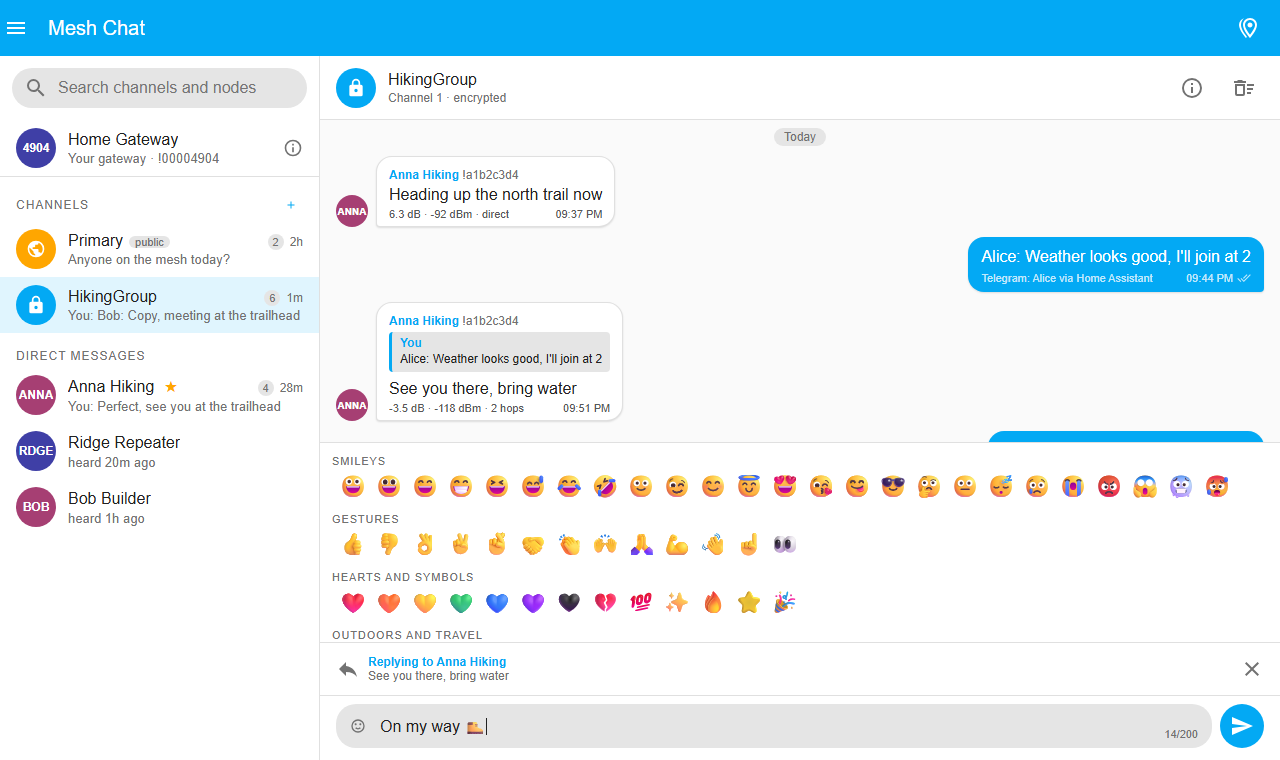
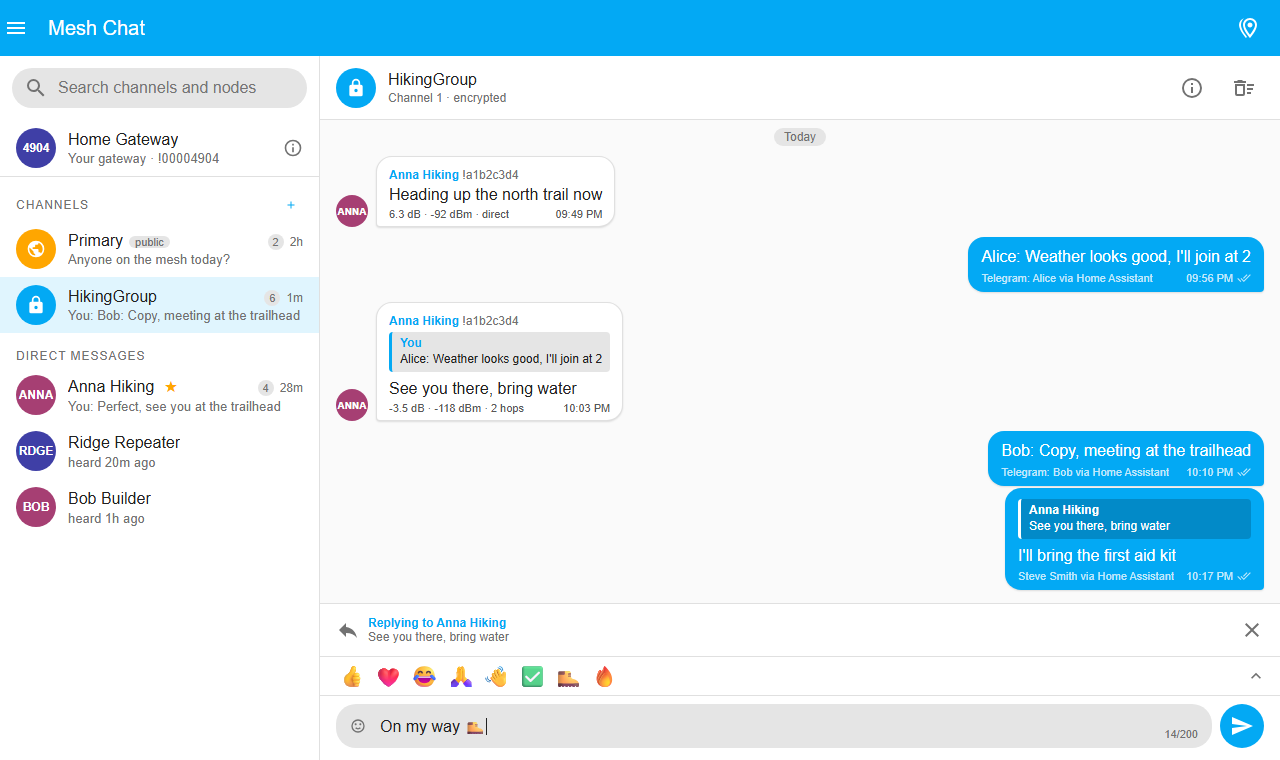
Chat: compact emoji strip, accuracy circle for the gateway
- The emoji picker is a strip of the eight emoji used last (kept in the browser, filled up with a few
  defaults) next to the composer; a chevron at its end opens the full list above it. The reply bar sits
  above the strip. README section and screenshots.
- The gateway's own position is exact in its node list, so its map marker never had an accuracy circle.
  The circle now shows what the mesh sees of it: the position precision of the primary channel (none when
  that shares full precision or no position). Other nodes keep the precision of their own position packets.
  The README says the circle is the sharing precision, not a radio range.

Tests for the gateway accuracy. Panel build 31.

diff --git a/custom_components/meshtastic/ha_frontend/chat-panel.js b/custom_components/meshtastic/ha_frontend/chat-panel.js
@@ -65,6 +65,9 @@ const EMOJI_GROUPS = [
   ["Weather", "☀ ⛅ ☁ 🌧 ⛈ ❄ 🌨 💨 🌈 🌡"],
   ["Radio and things", "📡 📻 📶 🔋 📱 💬 📢 ⚠ 🚨 🆘 ✅ ❌ ❓ ❗ ⏰ ☕ 🍺 🍕 🍔 🔔"],
 ].map(([title, emoji]) => [title, emoji.split(" ")]);
+// the strip above the composer shows the emoji used last, filled up with these until enough were used
+const EMOJI_RECENT_COUNT = 8;
+const EMOJI_DEFAULTS = ["👍", "❤", "😂", "🙏", "👋", "✅", "🥾", "🔥"];
 const REPLY_SNIPPET_CHARS = 120;
 const PRECISION_BITS = [0, 10, 11, 12, 13, 14, 15, 16, 17, 18, 19, 32];
 // nodes without a device tracker are shown to ha-map as states under this prefix (they never reach Home Assistant)
@@ -963,9 +966,33 @@ class MeshtasticChatPanel extends HTMLElement {
     window.setTimeout(() => row.classList.remove("flash"), 1500);
   }
 
+  _emojiMarkup(emoji) {
+    return `<button type="button" class="emoji" data-emoji="${emoji}" aria-label="${emoji}">${emoji}</button>`;
+  }
+
+  // the emoji used last (most recent first), padded with the defaults
+  _recentEmoji() {
+    const used = Array.isArray(this._persisted.recentEmoji) ? this._persisted.recentEmoji : [];
+    return [...new Set([...used, ...EMOJI_DEFAULTS])].slice(0, EMOJI_RECENT_COUNT);
+  }
+
+  _rememberEmoji(emoji) {
+    this._persisted.recentEmoji = [emoji, ...this._recentEmoji().filter((e) => e !== emoji)].slice(0, EMOJI_RECENT_COUNT);
+    saveState(this._persisted);
+  }
+
   _toggleEmojiPicker(open = this._emojiEl.hidden) {
+    if (open) this._emojiRecentEl.innerHTML = this._recentEmoji().map((e) => this._emojiMarkup(e)).join("");
+    else this._toggleAllEmoji(false);
     this._emojiEl.hidden = !open;
     this._emojiButton.setAttribute("aria-expanded", String(open));
+  }
+
+  _toggleAllEmoji(open = this._emojiAllEl.hidden) {
+    this._emojiAllEl.hidden = !open;
+    const expand = this._emojiEl.querySelector(".emoji-expand");
+    expand.setAttribute("aria-expanded", String(open));
+    expand.classList.toggle("open", open);
   }
 
   _insertEmoji(emoji) {
@@ -974,6 +1001,7 @@ class MeshtasticChatPanel extends HTMLElement {
     const start = textarea.selectionStart ?? textarea.value.length;
     const end = textarea.selectionEnd ?? start;
     textarea.setRangeText(emoji, start, end, "end");
+    this._rememberEmoji(emoji);
     textarea.focus();
     this._autoGrow();
     this._updateComposer();
@@ -1676,18 +1704,26 @@ class MeshtasticChatPanel extends HTMLElement {
           <header class="thread-header"></header>
           <div class="messages" role="log" aria-live="polite"></div>
           <div class="error" role="alert" hidden></div>
-          <div class="emoji-picker" role="group" aria-label="Emoji" hidden>${EMOJI_GROUPS.map(
-            ([title, emoji]) =>
-              `<div class="emoji-group" role="group" aria-label="${escapeHtml(title)}"><h3>${escapeHtml(title)}</h3>${emoji
-                .map((e) => `<button type="button" class="emoji" data-emoji="${e}" aria-label="${e}">${e}</button>`)
-                .join("")}</div>`
-          ).join("")}</div>
           <div class="reply-bar" hidden>
             <ha-icon icon="mdi:reply"></ha-icon>
             <div class="reply-bar-text"><span class="reply-bar-name"></span><span class="reply-bar-snippet"></span></div>
             <button type="button" class="icon-button" data-action="cancel-reply" aria-label="Cancel reply" title="Cancel reply">
               <ha-icon icon="mdi:close"></ha-icon>
             </button>
+          </div>
+          <div class="emoji-picker" role="group" aria-label="Emoji" hidden>
+            <div class="emoji-all" hidden>${EMOJI_GROUPS.map(
+              ([title, emoji]) =>
+                `<div class="emoji-group" role="group" aria-label="${escapeHtml(title)}"><h3>${escapeHtml(title)}</h3>${emoji
+                  .map((e) => this._emojiMarkup(e))
+                  .join("")}</div>`
+            ).join("")}</div>
+            <div class="emoji-bar">
+              <div class="emoji-recent"></div>
+              <button type="button" class="emoji-expand" data-action="emoji-expand" aria-expanded="false" aria-label="Show all emoji" title="All emoji">
+                <ha-icon icon="mdi:chevron-up"></ha-icon>
+              </button>
+            </div>
           </div>
           <form class="composer">
             <div class="composer-field">
@@ -1724,6 +1760,8 @@ class MeshtasticChatPanel extends HTMLElement {
     this._tooltipEl = root.querySelector(".tooltip");
     this._replyEl = root.querySelector(".reply-bar");
     this._emojiEl = root.querySelector(".emoji-picker");
+    this._emojiAllEl = root.querySelector(".emoji-all");
+    this._emojiRecentEl = root.querySelector(".emoji-recent");
     this._emojiButton = root.querySelector(".emoji-toggle");
     this._form = root.querySelector(".composer");
     this._textarea = root.querySelector("textarea");
@@ -1889,6 +1927,7 @@ class MeshtasticChatPanel extends HTMLElement {
     this._emojiEl.addEventListener("click", (ev) => {
       const emoji = ev.target.closest("[data-emoji]");
       if (emoji) this._insertEmoji(emoji.dataset.emoji);
+      if (ev.target.closest("[data-action=emoji-expand]")) this._toggleAllEmoji();
     });
 
     this._form.addEventListener("submit", (ev) => {

diff --git a/custom_components/meshtastic/ha_frontend/chat-panel.css b/custom_components/meshtastic/ha_frontend/chat-panel.css
@@ -646,12 +646,34 @@ a.chip-button { text-decoration: none; color: inherit; }
 .emoji-toggle:hover:not(:disabled) { color: var(--primary-text-color); }
 .emoji-toggle:disabled { opacity: 0.4; cursor: default; }
 .emoji-picker {
-  max-height: 200px;
-  overflow-y: auto;
-  padding: 4px 12px 8px;
   border-top: 1px solid var(--divider-color);
   background: var(--card-background-color);
 }
+.emoji-picker[hidden] { display: none; }
+.emoji-all {
+  max-height: 160px;
+  overflow-y: auto;
+  padding: 0 12px 6px;
+  border-bottom: 1px solid var(--divider-color);
+}
+.emoji-bar { display: flex; align-items: center; gap: 4px; padding: 2px 8px 2px 12px; }
+.emoji-recent { flex: 1; min-width: 0; display: flex; gap: 2px; overflow: hidden; }
+.emoji-expand {
+  width: 32px;
+  height: 32px;
+  border: none;
+  border-radius: 50%;
+  background: none;
+  color: var(--secondary-text-color);
+  cursor: pointer;
+  display: inline-flex;
+  align-items: center;
+  justify-content: center;
+  flex-shrink: 0;
+  transition: transform 0.15s;
+}
+.emoji-expand:hover { background: var(--secondary-background-color); }
+.emoji-expand.open { transform: rotate(180deg); }
 .emoji-group h3 {
   margin: 8px 0 2px;
   font-size: 11px;
@@ -661,12 +683,13 @@ a.chip-button { text-decoration: none; color: inherit; }
   color: var(--secondary-text-color);
 }
 .emoji {
-  width: 36px;
-  height: 36px;
+  width: 34px;
+  height: 34px;
+  flex-shrink: 0;
   border: none;
   border-radius: 8px;
   background: none;
-  font-size: 22px;
+  font-size: 21px;
   line-height: 1;
   cursor: pointer;
 }

diff --git a/custom_components/meshtastic/chat.py b/custom_components/meshtastic/chat.py
@@ -515,6 +515,19 @@ class MeshtasticChat:
         channels = await self.entry.runtime_data.client.async_get_channels()
         return next((c for c in channels if int(c.get("index", 0)) == index), None)
 
+    async def _gateway_position_accuracy(self) -> int | None:
+        """
+        Say how precisely the gateway shares its own position with the mesh.
+
+        The node database holds the gateway's exact position without a precision. What the other nodes see is
+        limited by the position precision of the channel it broadcasts on, normally the primary one.
+        """
+        for channel in await self.entry.runtime_data.client.async_get_channels():
+            if channel.get("role") == CHAT_CHANNEL_ROLE_PRIMARY:
+                bits = channel.get("settings", {}).get("moduleSettings", {}).get("positionPrecision")
+                return precision_to_meters(bits)
+        return None
+
     async def async_node_details(self, node_id: int) -> dict[str, Any]:
         """Describe a node with everything the gateway knows about it, for the details view of the panel."""
         nodes = await self.entry.runtime_data.client.async_get_all_nodes()
@@ -528,16 +541,23 @@ class MeshtasticChat:
         gateway_position = gateway_node.get("position", {})
         gateway_info = await self._gateway_info(len(nodes)) if node_id == self.gateway_id else None
         gateway_marker = None
+        gateway_accuracy = None
         if gateway_position.get("latitude") is not None and gateway_position.get("longitude") is not None:
             gateway_fields = _user_fields(self.gateway_id, gateway_node.get("user", {}))
+            gateway_accuracy = precision_to_meters(gateway_position.get("precisionBits"))
+            if gateway_accuracy is None:
+                gateway_accuracy = await self._gateway_position_accuracy()
             gateway_marker = {
                 "num": self.gateway_id,
                 "short_name": gateway_fields["short_name"],
                 "long_name": gateway_fields["long_name"],
                 "latitude": gateway_position["latitude"],
                 "longitude": gateway_position["longitude"],
-                "accuracy": precision_to_meters(gateway_position.get("precisionBits")),
+                "accuracy": gateway_accuracy,
             }
+        position = _position_summary(node.get("position", {}), gateway_position)
+        if position is not None and node_id == self.gateway_id and position["accuracy"] is None:
+            position["accuracy"] = gateway_accuracy
         return {
             "num": node_id,
             **_user_fields(node_id, user),
@@ -558,7 +578,7 @@ class MeshtasticChat:
             "channel_utilization": metrics.get("channelUtilization"),
             "air_util_tx": metrics.get("airUtilTx"),
             "uptime_seconds": metrics.get("uptimeSeconds"),
-            "position": _position_summary(node.get("position", {}), gateway_position),
+            "position": position,
             "device_id": self._device_id(node_id),
             "gateway_position": gateway_marker,
             "is_gateway": node_id == self.gateway_id,
@@ -598,10 +618,15 @@ class MeshtasticChat:
         nodes = await self.entry.runtime_data.client.async_get_all_nodes()
         gateway_position = (nodes.get(self.gateway_id) or {}).get("position", {})
         result = []
+        gateway_accuracy = None
         for node_id, node in nodes.items():
             position = _position_summary(node.get("position", {}), gateway_position)
             if position is None:
                 continue
+            if node_id == self.gateway_id and position["accuracy"] is None:
+                if gateway_accuracy is None:
+                    gateway_accuracy = await self._gateway_position_accuracy()
+                position["accuracy"] = gateway_accuracy
             result.append(
                 {
                     "num": node_id,

diff --git a/tests/test_chat.py b/tests/test_chat.py
@@ -1186,3 +1186,24 @@ async def test_websocket_send_a_reply(hass: HomeAssistant, hass_ws_client, chat_
     response = await ws.receive_json()
     assert not response["success"]
     assert "not available" in response["error"]["message"]
+
+
+async def test_gateway_position_accuracy_follows_its_primary_channel(chat_setup) -> None:
+    _, chat, client = chat_setup
+    # no precision on the channel: nothing to draw (an exact position)
+    assert (await chat.async_node_details(GATEWAY))["position"]["accuracy"] is None
+    assert (await chat.async_node_details(ANNA))["gateway_position"]["accuracy"] is None
+
+    # what the mesh sees of the gateway is limited by the position precision of its primary channel
+    client.channels[0]["settings"]["moduleSettings"] = {"positionPrecision": 13}
+    assert (await chat.async_node_details(GATEWAY))["position"]["accuracy"] == 2918
+    assert (await chat.async_node_details(ANNA))["gateway_position"]["accuracy"] == 2918
+    nodes = {n["num"]: n for n in (await chat.async_map_nodes())["nodes"]}
+    assert nodes[GATEWAY]["position"]["accuracy"] == 2918
+    assert nodes[ANNA]["position"]["accuracy"] == 2918  # its own precision bits, not the gateway's
+
+    # full precision is exact, and a channel that shares no position leaves nothing to draw either
+    client.channels[0]["settings"]["moduleSettings"] = {"positionPrecision": 32}
+    assert (await chat.async_node_details(GATEWAY))["position"]["accuracy"] == 0
+    client.channels[0]["settings"]["moduleSettings"] = {"positionPrecision": 0}
+    assert (await chat.async_node_details(GATEWAY))["position"]["accuracy"] is None

diff --git a/custom_components/meshtastic/ha_frontend/version.py b/custom_components/meshtastic/ha_frontend/version.py
@@ -2,4 +2,4 @@
 #
 # SPDX-License-Identifier: MIT
 
-VERSION = "30"
+VERSION = "31"

diff --git a/README.md b/README.md
@@ -349,7 +349,7 @@ and to every user once a gateway allows non-administrators (see the options belo
 | Byte counter next to the composer | Meshtastic text messages are limited to 200 bytes, prefix included; an emoji takes 4 to 7 of them |
 | ↩ next to a message | reply to it (see below) |
 | Grey box with a name above a message | the message it answers; click it to jump to the original |
-| ☺ in the composer | opens the emoji picker |
+| ☺ in the composer | opens a strip with the emoji you used last; ⌃ at its end shows all emoji |
 | Bin icon in the header | administrators can delete the stored history of a conversation; messages on devices are not affected |
 | Name or ⓘ in the header | opens the details of the node or channel (see below) |
 
@@ -364,9 +364,14 @@ message in the same way; the quoted text is kept with the reply, so it is still 
 deleted from the history. Only messages that carry a packet id can be answered, which is every message received or
 sent since this feature exists.
 
-☺ in the composer opens a picker with a few dozen emoji (smileys, gestures, outdoors, weather, radio); a click puts the
-emoji at the cursor. Emoji are plain text on the mesh, so every Meshtastic app shows them, but each takes several of
-the 200 bytes of a message, and small device screens may not be able to draw them.
+☺ in the composer opens a compact strip with the eight emoji you used last (it starts with 👍 ❤ 😂 🙏 👋 ✅ 🥾 🔥,
+and is kept in your browser); a click puts the emoji at the cursor. ⌃ at the end of the strip opens the full list
+(smileys, gestures, outdoors, weather, radio) above it.
+
+<p align="center"><img src="docs/mesh-chat/emoji.png" width="800" alt="The emoji strip with the full list opened above it"></p>
+
+Emoji are plain text on the mesh, so every Meshtastic app shows them, but each takes several of the 200 bytes of a
+message, and small device screens may not be able to draw them.
 
 ### Node details, favourites and the map
 
@@ -440,7 +445,10 @@ Assistant log with the user's name.
 <p align="center"><img src="docs/mesh-chat/map.png" width="800" alt="Map view: full-size map with the chat's own node markers"></p>
 
 A node that shares its position with limited precision gets a circle of that accuracy around its marker (exact
-positions, and ones coarser than 50 km, get none), on the full map and in the details map.
+positions, and ones coarser than 50 km, get none), on the full map and in the details map. The circle is not a radio
+range: it shows how precisely the node tells the mesh where it is, taken from the precision bits of its position
+packets. Your own gateway's position is exact in its node list, so its circle shows what the mesh sees instead: the
+position precision of its primary channel (none when that channel shares full precision or no position).
 
 Nodes with a `device_tracker` entity (the nodes selected in the integration options) are the ones Home Assistant's
 own Map panel and automations know as well; the chat map does not need them.
